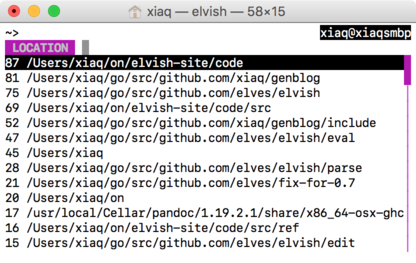
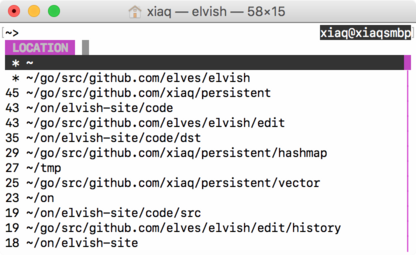
Update cookbook images.

diff --git a/assets/genblog.css b/assets/genblog.css
@@ -35,8 +35,8 @@ input, select { vertical-align: middle; }
 body {
     font-family: "Helvetica Neue", Helvetica, "Segoe UI", Arial, freesans, sans-serif, "Apple Color Emoji", "Segoe UI Emoji", "Segoe UI Symbol", "Microsoft Yahei", FZHei-B01, "WenQuanYi Micro Hei", SimHei;
     font-size: 16px;
+    /* color: white; */
     background-color: white;
-    overflow-y: overlay;
 }
 
 /*
@@ -49,9 +49,7 @@ body {
 
 #navbar-container {
     top: 0;
-    width: 1280px;
-    max-width: 100%;
-    margin: auto;
+    width: 100%;
     color: white;
     background-color: #1a1a1a;
 }
@@ -111,6 +109,7 @@ a {
     font-size: 2em;
     color: white;
     display: inline-block;
+    /*float: left;*/
 }
 
 .card-splitter {
@@ -120,7 +119,9 @@ a {
 }
 
 #category-list {
+    /*display: block;*/
     display: inline-block;
+    /* float: left; */
     margin: 20px 0 0 2%;
 }
 
@@ -146,10 +147,6 @@ a {
 }
 
 /* Article content. */
-
-.timestamp {
-    margin-bottom: 0.6em;
-}
 
 .article-header {
     padding: 2.4% 4% 1.6%;

diff --git a/src/learn/cookbook.md b/src/learn/cookbook.md
@@ -19,34 +19,36 @@ If you come from other shells, hopefully the following recipes will get you star
 
 *   Press Up to search through history. It uses what you have typed to do prefix match. To cancel, press Escape.
 
-    ![history](https://raw.githubusercontent.com/elves/images/master/history.png)
+    <img src="/assets/history.png" srcset="/assets/history-2x.png 2x" class="macos" alt="History mode demo">
 
-*   Press Tab to start completion. Use arrow key and Tab to select the candidate;  press Enter, or just continue typing to accept. To cancel, press Escape.
+*   Press Tab to start completion. Use arrow key and Tab to select the candidate; press Enter, or just continue typing to accept. To cancel, press Escape. It even comes with a scrollbar.
 
-    ![tab completion](https://raw.githubusercontent.com/elves/images/master/completion.png)
+    <img src="/assets/tab-completion.png" srcset="/assets/tab-completion-2x.png 2x" class="macos" alt="Tab completion demo">
 
 *   Press Ctrl-N to start navigation mode. Press Ctrl-H to show hidden files; press again to hide. Press tab to append selected filename to your command. Likewise, pressing Escape gets you back to the default (insert) mode.
 
-    ![navigation mode](https://raw.githubusercontent.com/elves/images/master/navigation.png)
+    <img src="/assets/navigation.png" srcset="/assets/navigation-2x.png 2x" class="macos" alt="Navigation mode demo">
 
 *   Try typing `echo [` and press Enter. Elvish knows that the command is unfinished due to the unclosed `[` and inserts a newline instead of accepting the command. Moreover, common errors like syntax errors and missing variables are highlighted in real time.
 
 *   Elvish remembers which directories you have visited. Press Ctrl-L to list visited directories. Like in completion, use Up, Down and Tab to navigate and use Enter to accept (which `cd`s into the selected directory). Press Escape to cancel.
 
-    <img src="/assets/location.png" srcset="/assets/location-2x.png 2x" class="macos"alt="Screenshot of location mode">
-
+    <img src="/assets/location.png" srcset="/assets/location-2x.png 2x" class="macos"alt="Location mode demo">
 
     Type to filter:
-  
-    ![location mode, filtering](https://raw.githubusercontent.com/elves/images/master/location-filter.png)
 
-    The filtering algorithm takes your filter and adds `**` to both sides of each path component. So `g/di` becomes pattern `**g**/**di**`, so it matches /home/xiaq/**g**o/elves/elvish/e**di**t.
+    <img src="/assets/location-filter.png" srcset="/assets/location-filter-2x.png 2x" class="macos"alt="Location mode filter demo">
 
-*   **NOTE**: Default key bindings as listed above are subject to change in the future; but the functionality will not go away.
+    The filtering algorithm is tailored for matching paths; you need only type
+    a prefix of each component. In the screenshot, x/p/v matches
+    **x**iaq/**p**ersistent/**v**ector.
 
-*   Elvish doesn't support history expansion like `!!`. Instead, it has a "bang mode", triggered by `Alt-,`, that provides the same functionality. For example, if you typed a command but forgot to add `sudo`, you can then type `sudo ` and press `Alt-,` twice to fix it:
+*   Elvish doesn't support history expansion like `!!`. Instead, it has a
+    "last command mode", triggered by `Alt-,`, that provides the same
+    functionality. For example, if you typed a command but forgot to add
+    `sudo`, you can then type `sudo ` and press `Alt-,` twice to fix it:
 
-    ![bang mode](https://raw.githubusercontent.com/elves/images/master/bang.png)
+    <img src="/assets/bang.png" srcset="/assets/bang-2x.png 2x" class="macos"alt="Bang mode demo">
 
 *   Lists look like `[a b c]`, and maps look like `[&key1=value1 &key2=value2]`. Unlike other shells, a list never expands to multiple words, unless you explicitly explode it by prefixing the variable name with `@`:
     ```sh
